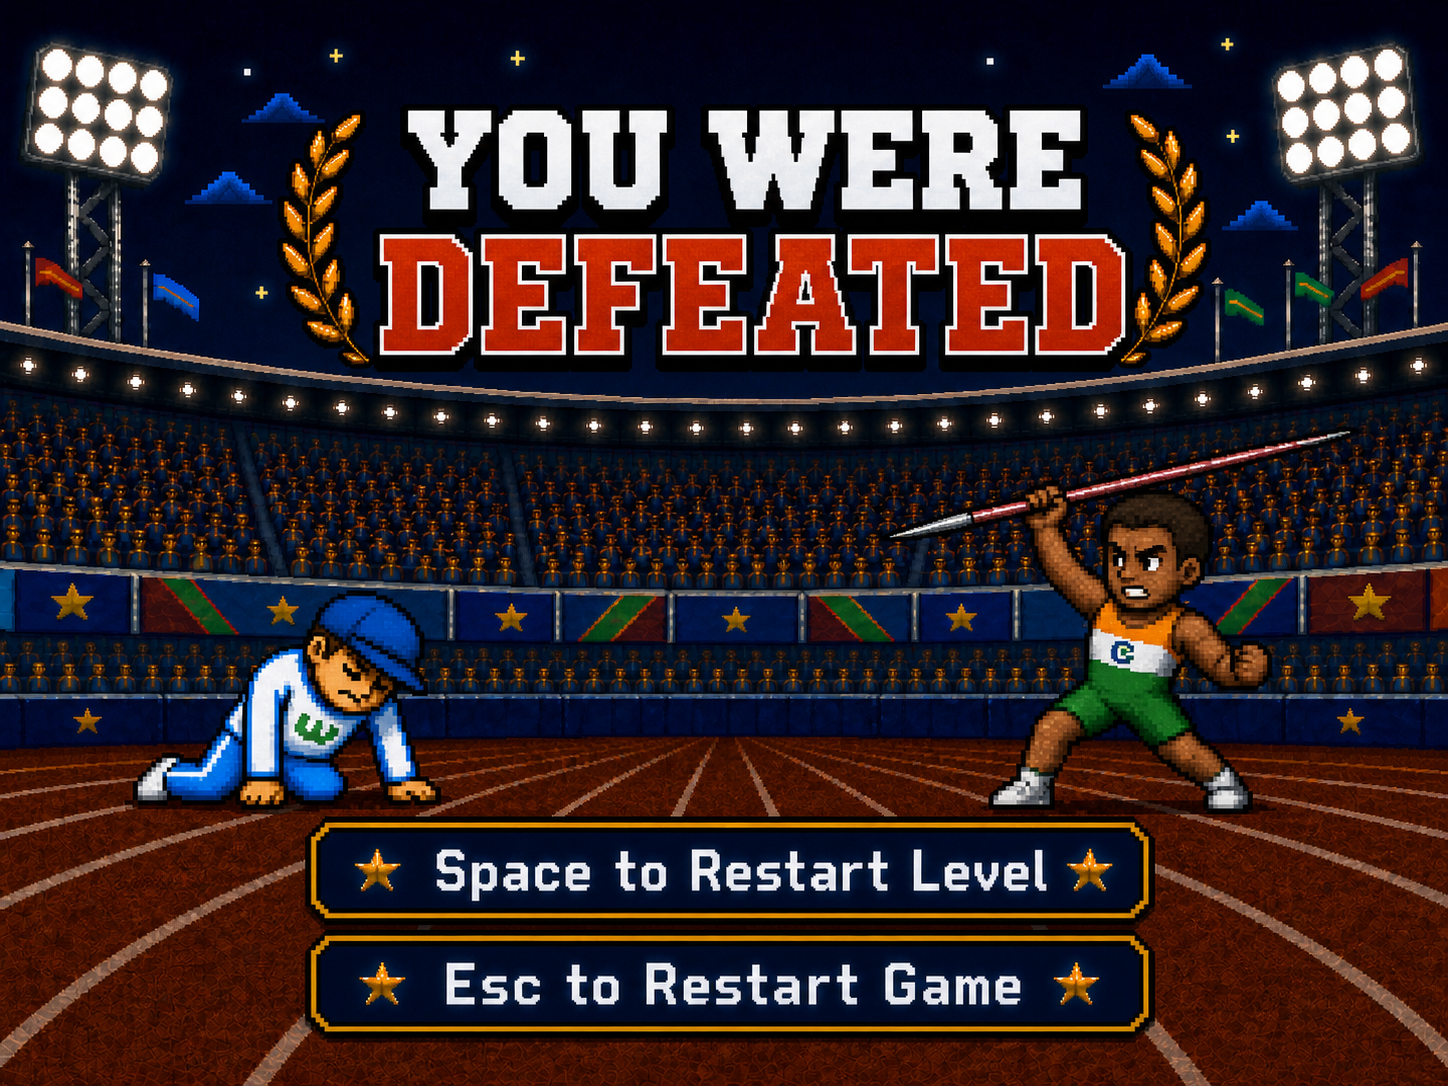
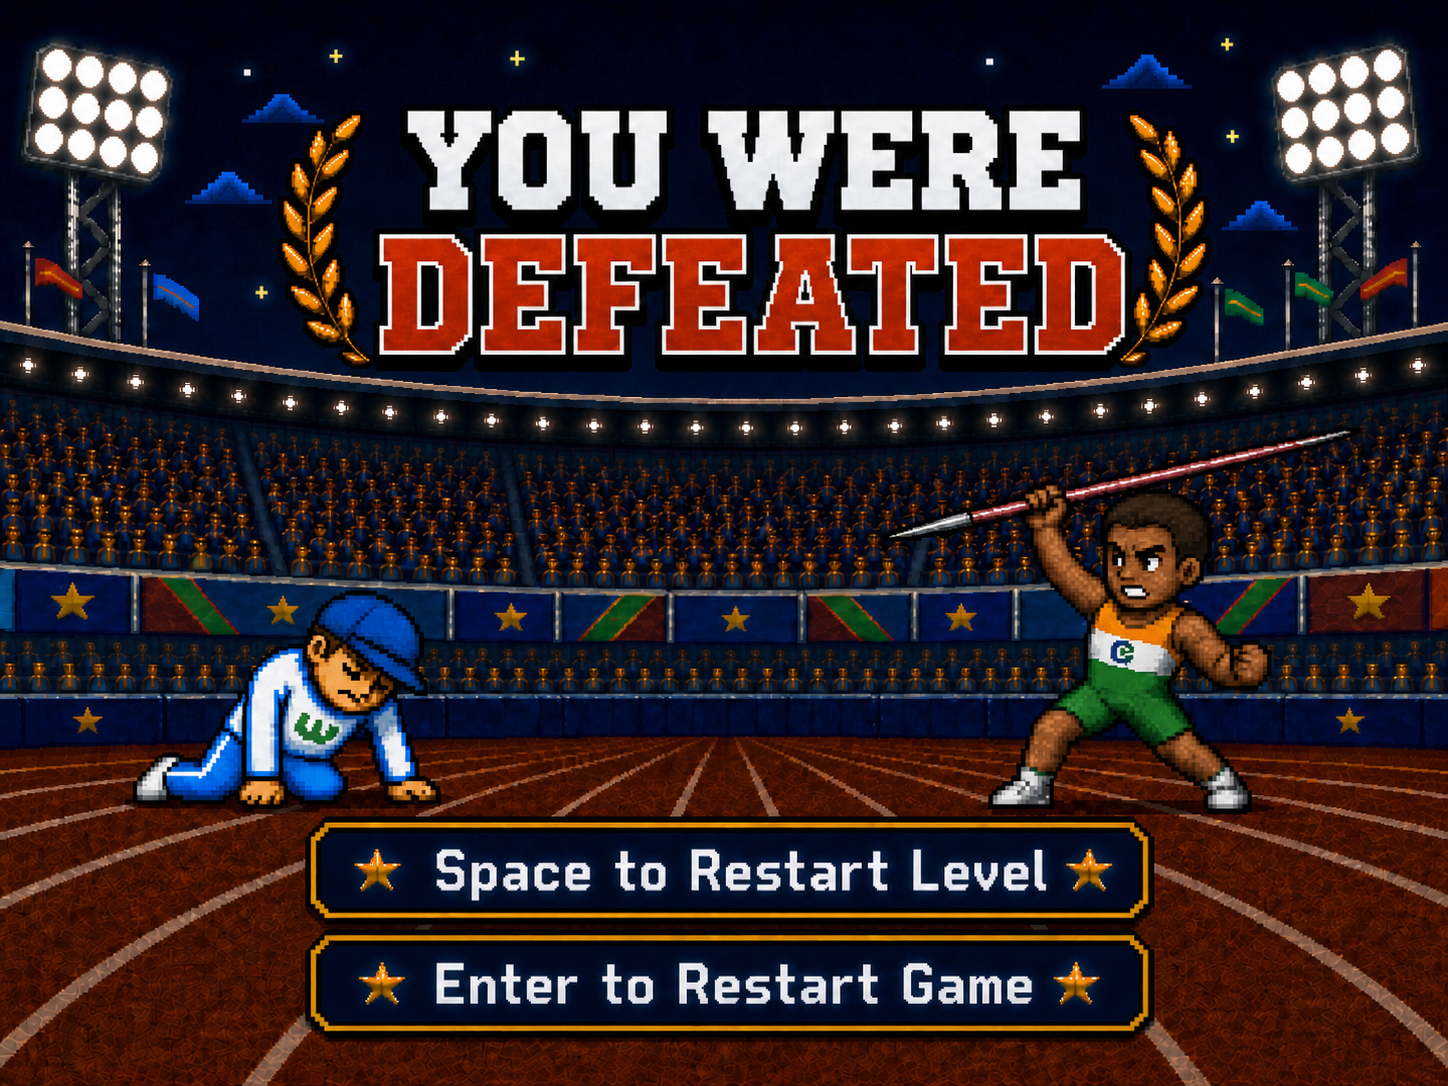
(feat) Can now pause using P

diff --git a/game.py b/game.py
@@ -28,7 +28,7 @@ class Game:
         self.weight = Weight(0,0)
         self.blood = Blood(0,0)
         self.curr_evidence = 0
-        self.total_evidence = 0
+        self.cum_evidence = 0
         self.curr_time = 0
         self.start_time = 0
         self.debug = False
@@ -43,7 +43,8 @@ class Game:
         self.splash_src = Rectangle(0,0,self.splash.width,self.splash.height)
         self.screen_size = Rectangle(0,0,SCREEN_WIDTH, SCREEN_HEIGHT)
         self.level_complete = load_texture(LEVEL_COMPLETE)
-        self.num_evidence = 0
+        self.curr_level_evidence = 0
+        self.total_evidence = 0
         self.win = False
         self.calculating = load_texture(CALCULATING)
         self.loading_bar = Rectangle(215,400,0,30)
@@ -51,6 +52,13 @@ class Game:
         self.escaped = load_texture(ESCAPED)
         self.defeat = load_texture(DEFEAT)
         self.flag = load_texture(FLAG)
+        self.pause_white = Color(255, 255, 255, 127)
+        self.pause = False
+        self.pause_seconds = 0
+        self.paused_at = 0
+        self.unpaused_at = 0
+
+
 
 
     def startup(self, level):
@@ -71,7 +79,7 @@ class Game:
                     y = row * TILE_SIZE
                     if random.random() < 0.8:
                         self.blood.arr.append(Blood(int(x + 5), int(y + 5)))
-                        self.num_evidence += 1
+                        self.curr_level_evidence += 1
                 if tile_value == TILE_WIN:
                     x = col * TILE_SIZE
                     y = row * TILE_SIZE
@@ -155,12 +163,19 @@ class Game:
         self.javelins = [j for j in self.javelins if j not in to_remove]
 
     def calculate_win(self):
-        percent = self.total_evidence / self.num_evidence
-        if random.random() < percent:
+        percent = self.cum_evidence / self.total_evidence
+        print(self.cum_evidence)
+        print(self.total_evidence)
+        print(percent)
+        x = random.random()
+        print(x)
+        if x < percent:
             self.win = True
 
     def restart_level(self):
         self.curr_evidence = 0
+        self.curr_level_evidence = 0
+        self.pause_seconds = 0
         self.weight.arr = []
         self.blood.arr = []
         self.win_tiles = []
@@ -173,7 +188,10 @@ class Game:
 
     
     def next_level(self):
-        self.total_evidence += self.curr_evidence
+        self.cum_evidence += self.curr_evidence
+        self.total_evidence += self.curr_level_evidence
+        self.curr_level_evidence = 0
+        self.pause_seconds = 0
         self.curr_evidence = 0
         self.curr_level += 1
         self.weight.arr = []
@@ -189,33 +207,51 @@ class Game:
     def reset(self):
         self.next_level()
         self.total_time = 0
+        self.cum_evidence = 0
         self.total_evidence = 0
-        self.num_evidence = 0
+        self.curr_level_evidence = 0
         self.win = False
         self.curr_level = 0
         self.player.health = 3
         self.game_state = GameStates.SPLASH
+        self.player.position = Vector2(SCREEN_WIDTH/4, SCREEN_HEIGHT)
+
+    def resume_timer(self):
+        self.unpaused_at = get_time()
+        self.pause_seconds += self.unpaused_at - self.paused_at
+
+    def handle_pausing(self):
+        if not self.pause:
+            self.paused_at = get_time()
+        else:
+            self.resume_timer()
+        self.pause = not self.pause
 
 
     def update(self):
         match self.game_state:
             case GameStates.GAME:
-                self.curr_time = get_time() - self.start_time
-                self.item_player_collision()
-                self.player.update(LEVELS[self.curr_level])
-                for enemy in self.enemies:
-                    javelin = enemy.update()
-                    if javelin != None:
-                        self.javelins.append(javelin)
-                for javelin in self.javelins:
-                    javelin.update()
-                self.jav_world_collisions(LEVELS[self.curr_level])
-                self.update_camera()
-                self.check_debug()
-                self.weight.update()
-                self.check_win()
-                if self.player.health < 1:
-                    self.game_state = GameStates.DEFEAT
+                if(is_key_pressed(KeyboardKey.KEY_P)):
+                    self.handle_pausing()
+                if not self.pause:
+                    print(self.curr_level_evidence)
+                    self.curr_time = get_time() - self.start_time - self.pause_seconds
+                    self.item_player_collision()
+                    self.player.update(LEVELS[self.curr_level])
+                    for enemy in self.enemies:
+                        javelin = enemy.update()
+                        if javelin != None:
+                            self.javelins.append(javelin)
+                    for javelin in self.javelins:
+                        javelin.update()
+                    self.jav_world_collisions(LEVELS[self.curr_level])
+                    self.update_camera()
+                    self.check_debug()
+                    self.weight.update()
+                    self.check_win()
+                    if self.player.health < 1:
+                        self.game_state = GameStates.DEFEAT
+    
             case GameStates.IN_BETWEEN:
                 if is_key_pressed(KEY_SPACE):
                     self.next_level()
@@ -249,7 +285,6 @@ class Game:
                     self.next_level()
                     self.reset()
                     self.game_state = GameStates.SPLASH
-
 
     def check_debug(self):
         if is_key_pressed(KEY_I):
@@ -326,16 +361,14 @@ class Game:
                 draw_rectangle_rec(self.loading_bar, GREEN)
             case GameStates.WIN:
                 draw_texture_pro(self.caught, self.splash_src, self.screen_size, (0,0), 0, WHITE)
-                draw_text(f"{self.total_evidence} Blood Bags", 265, 255, 40, RED)
+                draw_text(f"{self.cum_evidence} Blood Bags", 265, 255, 40, RED)
                 draw_text(f"{self.total_time:.2f} Seconds", 265, 355, 40, WHITE)
             case GameStates.LOSE:
                 draw_texture_pro(self.escaped, self.splash_src, self.screen_size, (0,0), 0, WHITE)
-                draw_text(f"{self.total_evidence} Blood Bags", 265, 255, 40, RED)
+                draw_text(f"{self.cum_evidence} Blood Bags", 265, 255, 40, RED)
                 draw_text(f"{self.total_time:.2f} Seconds", 265, 355, 40, WHITE)
             case GameStates.DEFEAT:
                 draw_texture_pro(self.defeat, self.splash_src, self.screen_size, (0,0), 0, WHITE)
-
-
 
     def draw(self):
         match self.game_state:
@@ -343,7 +376,6 @@ class Game:
                 self.draw_level(LEVELS[self.curr_level])
                 draw_texture_pro(self.flag, Rectangle(0,0,self.flag.width,self.flag.height)
                                  ,Rectangle(WORLD_WIDTH-130,WORLD_HEIGHT-123,100,100),(0,0),0,WHITE)
-
                 self.player.draw(self.debug)
                 for enemy in self.enemies:
                     enemy.draw()
@@ -352,6 +384,11 @@ class Game:
                 self.blood.draw()
                 self.weight.draw()
                 self.draw_debug()
+                if self.pause:
+                    draw_rectangle(int(self.camera.target.x - self.camera.offset.x),
+                                    int(self.camera.target.y - self.camera.offset.y),
+                                    SCREEN_WIDTH,SCREEN_HEIGHT,self.pause_white)
+                    draw_text(f"GAME PAUSED", 155, int(self.camera.target.y), 70, RED)
 
             
     def shutdown(self):
